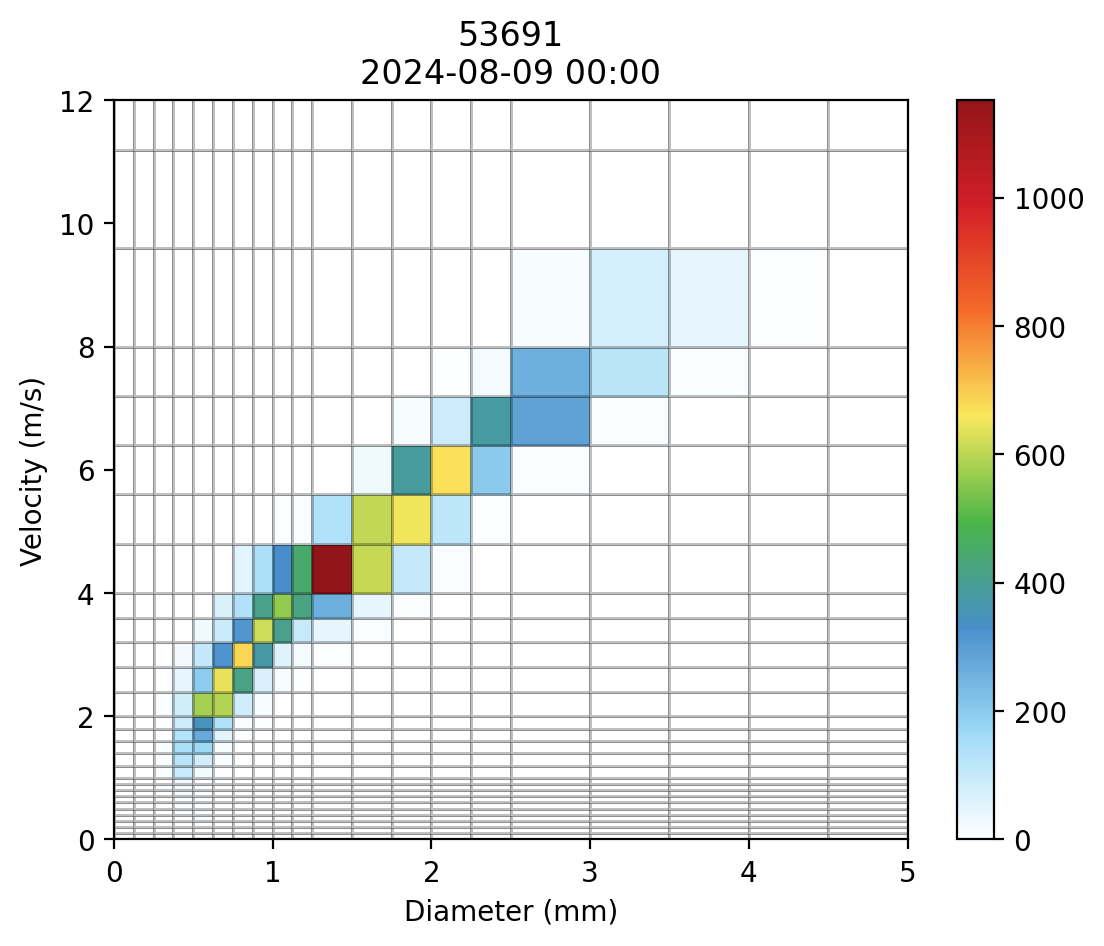
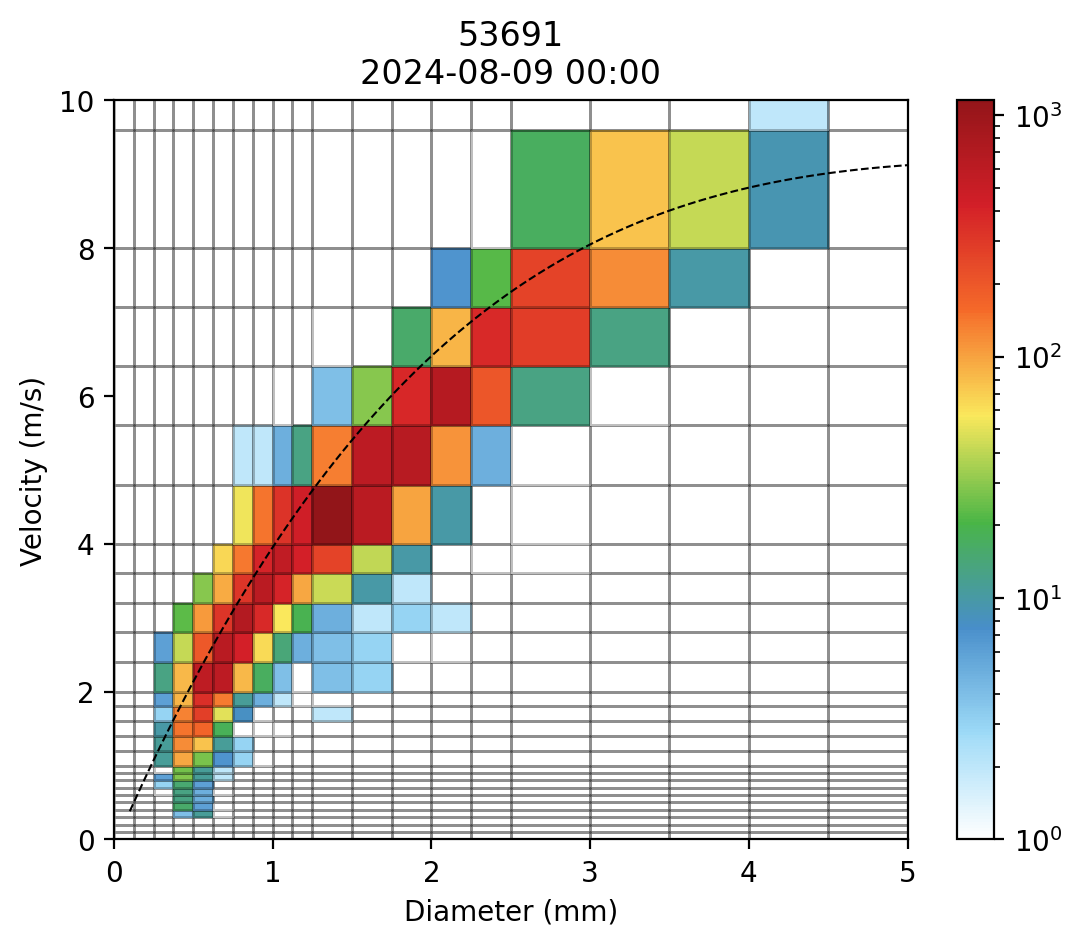
add gunn_kinzer_velocity function

diff --git a/src/cnrsd/__init__.py b/src/cnrsd/__init__.py
@@ -34,6 +34,7 @@ __all__ = [
     "build_rsd_dataarray",
     "get_bin_edges",
     "get_rsd_grid",
+    "gunn_kinzer_velocity",
     "lookup_class_params",
     "mass_weighted_diameter",
     "read_file",
@@ -714,14 +715,13 @@ def lookup_class_params(
     if (class_numbers < 1).any():
         raise ValueError("class_numbers 的元素的值必须 >= 1")
 
-    max_numbers = np.where(
-        device_types, RSD_GRID_200.num_classes, RSD_GRID_100.num_classes
-    )
+    mask_200 = device_types.astype(np.bool_)
+    max_numbers = np.where(mask_200, RSD_GRID_200.num_classes, RSD_GRID_100.num_classes)
     if (class_numbers > max_numbers).any():
         raise ValueError("class_numbers 的元素的值超过了 device_types 允许的上限")
 
     class_indices = class_numbers.astype(np.intp) - 1
-    class_indices[device_types.astype(np.bool_)] += RSD_GRID_100.num_classes
+    class_indices[mask_200] += RSD_GRID_100.num_classes
     class_table = _get_class_table()
     class_params = class_table[class_indices, :]  # 返回 copy
 
@@ -757,6 +757,7 @@ def _safe_concat(
         return np.concatenate(arrays, dtype=dtype)
 
 
+# TODO: 添加 add_class_params 开关
 def rsds_to_dict(rsds: Sequence[RSD]) -> RSDDict:
     """将多个 `RSD` 对象转换成列式字典
 
@@ -868,7 +869,7 @@ def build_rsd_dataarray(
 
     # 允许 particle_numbers 是浮点数类型
     particle_numbers = np.atleast_1d(np.asarray(particle_numbers))
-    if class_numbers.shape != particle_numbers.shape:
+    if particle_numbers.shape != class_numbers.shape:
         raise ValueError("class_numbers 和 particle_numbers 的形状必须相同")
 
     coords = {
@@ -941,3 +942,12 @@ def mass_weighted_diameter(diameters: ArrayLike, particle_numbers: ArrayLike) ->
     dm = float(num / denom)
 
     return dm
+
+
+def gunn_kinzer_velocity(diameter: ArrayLike) -> NDArray[np.float64]:
+    """计算液态雨滴的末速度。输入输出的单位是 mm 和 m/s。"""
+    diameter = np.asarray(diameter, dtype=np.float64)
+    coeffs = [-0.002362, 0.07934, -0.9551, 4.932, -0.1021]
+    velocity = np.polyval(coeffs, diameter)
+
+    return cast(NDArray[np.float64], velocity)

diff --git a/examples/plot_station.py b/examples/plot_station.py
@@ -6,6 +6,8 @@ from pathlib import Path
 
 import cmaps
 import matplotlib.pyplot as plt
+import numpy as np
+from matplotlib.colors import LogNorm
 
 import cnrsd
 
@@ -17,16 +19,20 @@ def main() -> None:
 
     fig, ax = plt.subplots()
     ax.set_xlim(0, 5)
-    ax.set_ylim(0, 12)
+    ax.set_ylim(0, 10)
 
     pc = ax.pcolormesh(
         cnrsd.get_bin_edges(da.diameter_center, da.diameter_width),
         cnrsd.get_bin_edges(da.velocity_center, da.velocity_width),
         da.sum("time"),
         cmap=cmaps.WhiteBlueGreenYellowRed,
+        norm=LogNorm(vmin=1),
         ec=(0, 0, 0, 0.25),
         lw=0.5,
     )
+
+    diameters = np.linspace(0.1, 5, 100)
+    ax.plot(diameters, cnrsd.gunn_kinzer_velocity(diameters), "k--", lw=0.75)
 
     ax.set_xlabel("Diameter (mm)")
     ax.set_ylabel("Velocity (m/s)")
@@ -35,7 +41,7 @@ def main() -> None:
 
     fig_dirpath = Path("images")
     fig_dirpath.mkdir(exist_ok=True)
-    fig_filepath = fig_dirpath / f"{rsd.station_id}.png"
+    fig_filepath = fig_dirpath / "plot_station.png"
     fig.savefig(fig_filepath, dpi=200, bbox_inches="tight")
     plt.close(fig)
 

diff --git a/CHANGELOG.md b/CHANGELOG.md
@@ -2,6 +2,7 @@
 
 - 增加对常量和站名更严格的检查
 - 新增 `read_file` 函数，等价于 `RSD.from_file` 方法
+- 新增 `gunn_kinzer_velocity` 函数，用经验公式计算液态雨滴的下落末速度
 
 ## 0.1.1 (2026-02-11)
 
